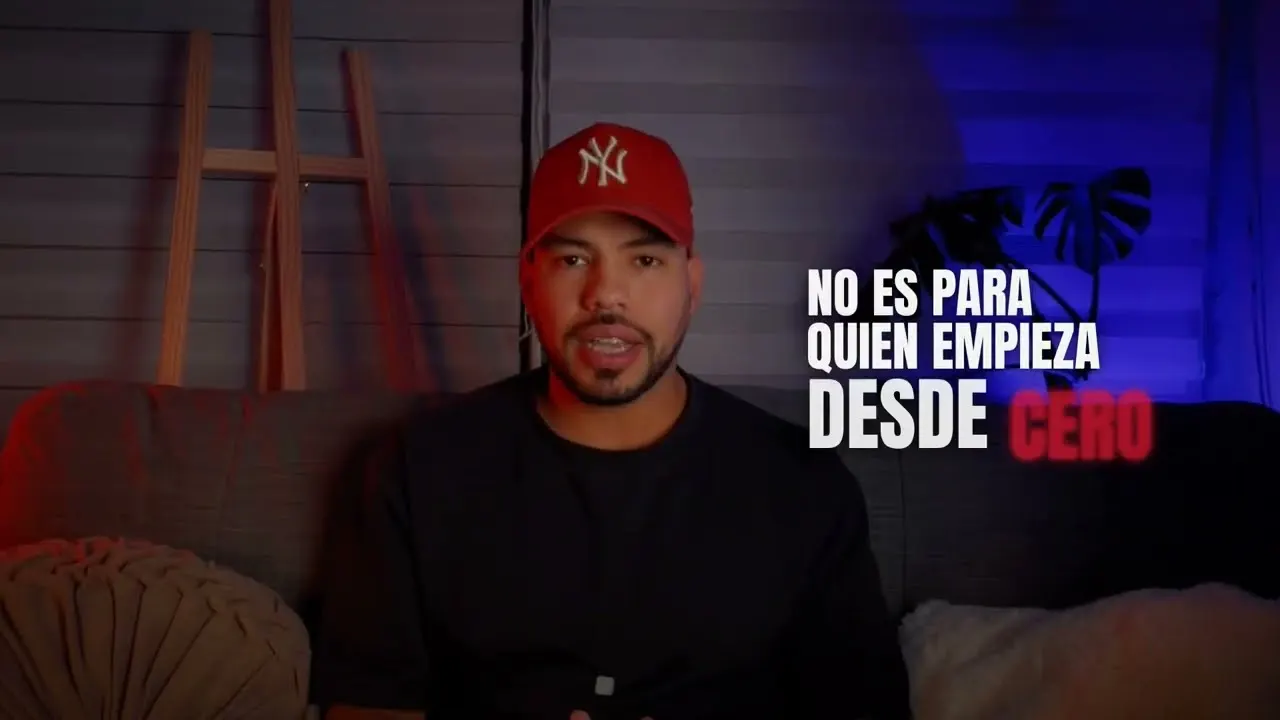
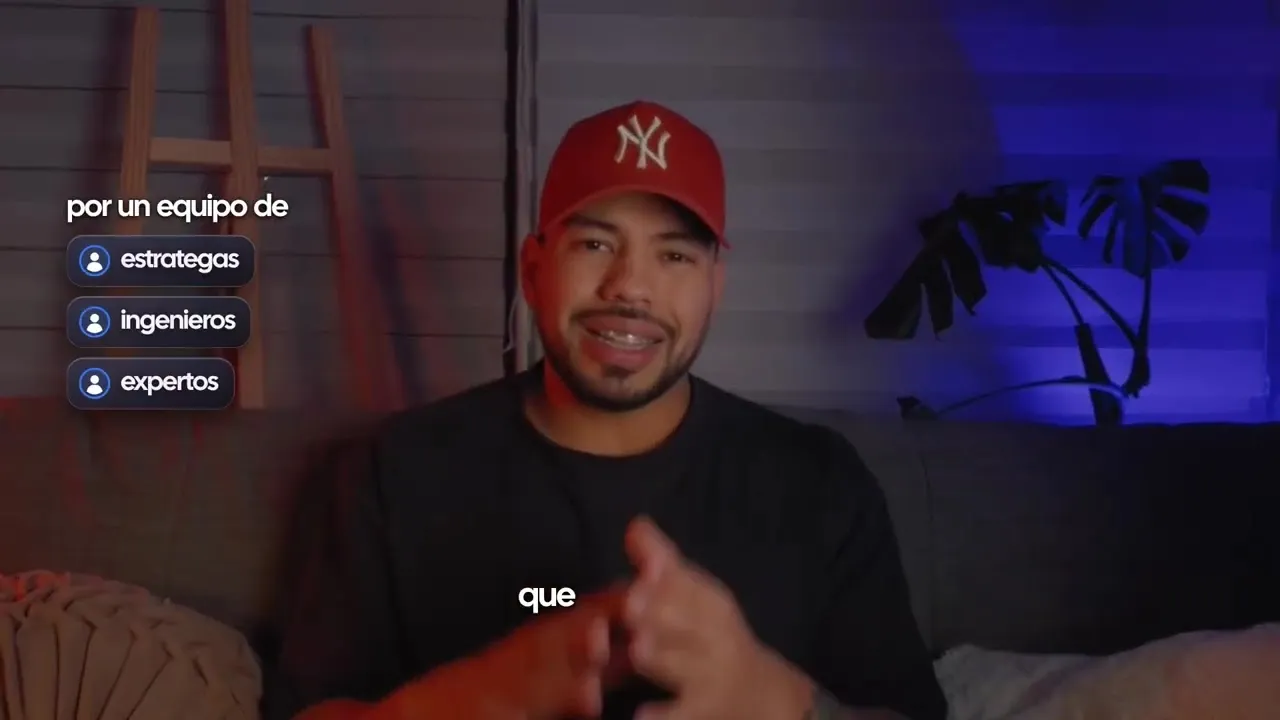
feat: nuevo VSL en el hero y su portada

diff --git a/config/site.js b/config/site.js
@@ -20,7 +20,7 @@ export const integrations = {
   // Vídeo principal del hero (enlace de YouTube o de Loom). Vacío = no se muestra.
   // poster: portada servida desde /public, para no conectar con YouTube hasta pulsar reproducir.
   videos: {
-    hero: { url: 'https://youtu.be/CA-JVdtOTeo', poster: '/video/vsl.webp' },
+    hero: { url: 'https://youtu.be/9RgW2CHVNJ0', poster: '/video/vsl.webp' },
   },
   // Opcionales. Si se rellenan, aparece el aviso de cookies automáticamente.
   metaPixelId: '',
